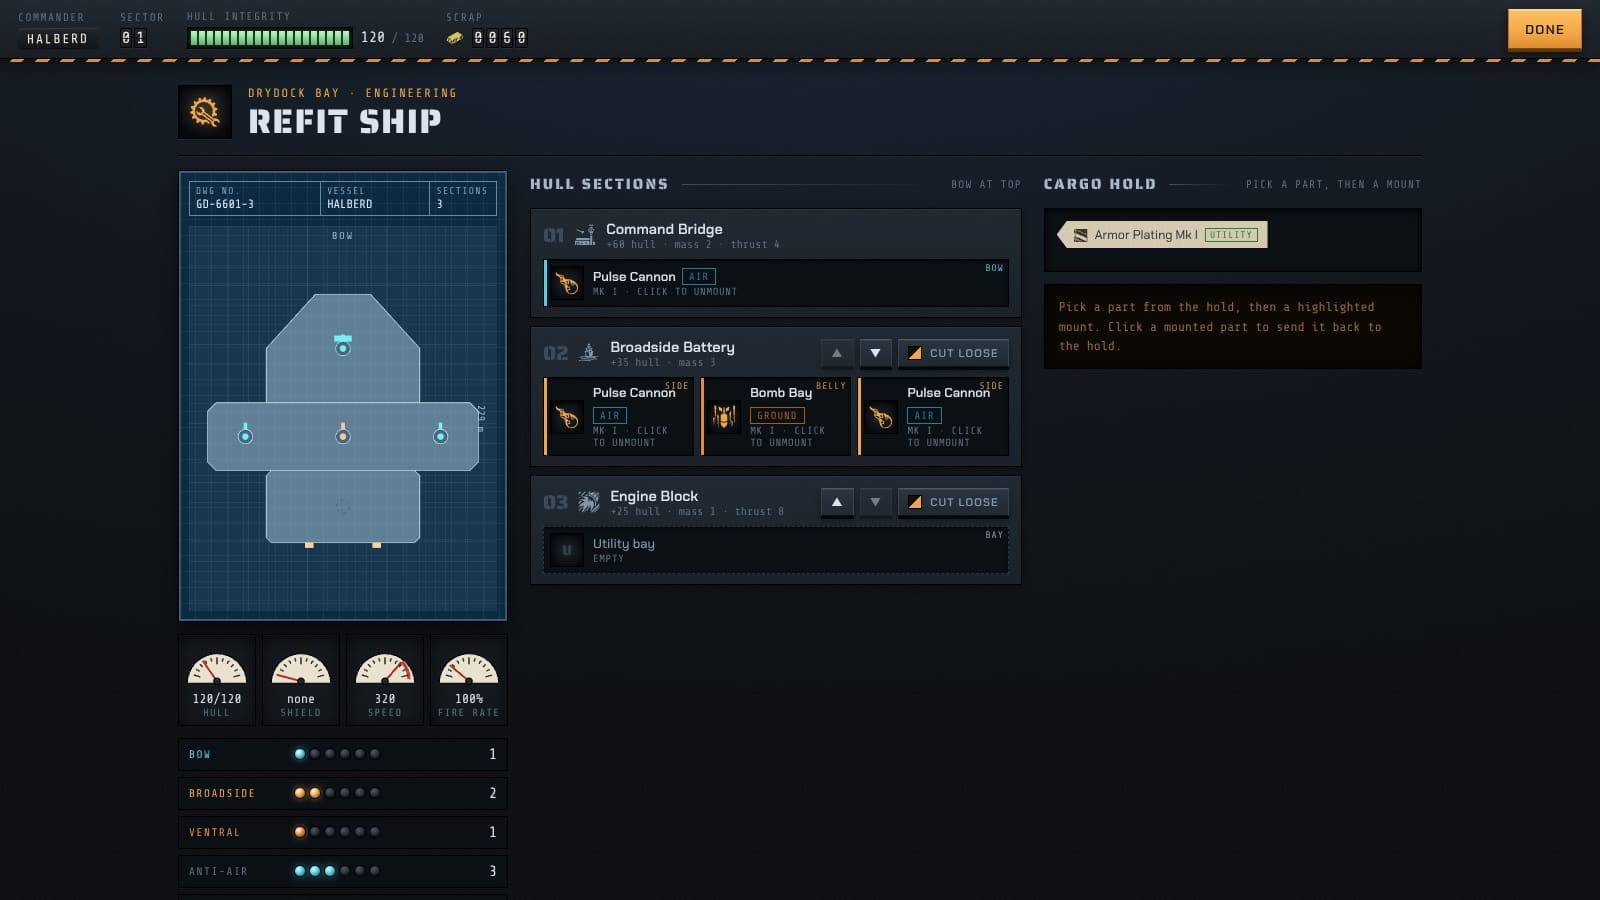
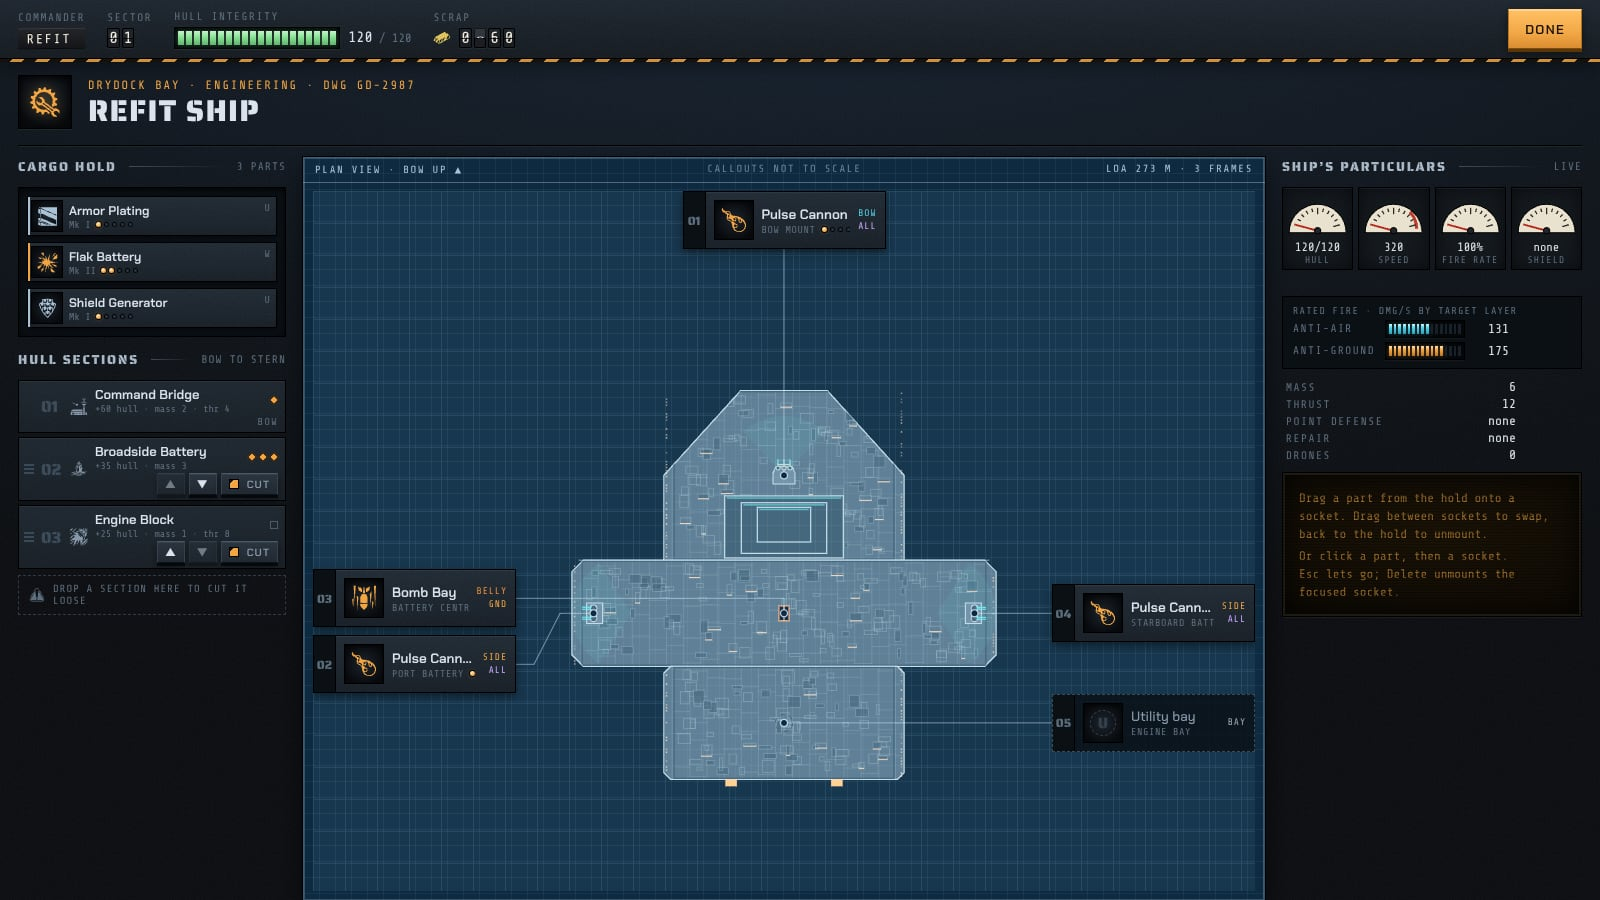
Refit board: carried tile hangs off the pointer, positional broadside side for candidates, screenshots
Claude-Session: https://claude.ai/code/session_013gCGajPg7k7sM5MfjeQhGC

diff --git a/src/ui/drag.ts b/src/ui/drag.ts
@@ -25,7 +25,7 @@ export const dragging = () => !!active;
 /** Cancel the drag in progress, if any (Escape, screen change). */
 export const cancelDrag = () => active?.cancel();
 
-const HOLD_MS = 260, SLOP = 6;
+const HOLD_MS = 260, SLOP = 6, CARRY = 0.82;
 
 /** Make `src` draggable. `hooks()` is asked at drag start and may return null to refuse (nothing to carry). */
 export function draggable(src: HTMLElement, hooks: () => DragHooks | null) {
@@ -33,15 +33,14 @@ export function draggable(src: HTMLElement, hooks: () => DragHooks | null) {
     if (e.button !== 0 || active) return;
     const touch = e.pointerType === 'touch', x0 = e.clientX, y0 = e.clientY, id = e.pointerId;
     let started = false, h: DragHooks | null = null, ghost: HTMLElement | null = null, target: HTMLElement | null = null;
-    let gx = 0, gy = 0, ox = 0, oy = 0, timer = 0, lx = x0, ly = y0;
+    let gx = 0, gy = 0, timer = 0, lx = x0, ly = y0;
     const begin = () => {
       h = hooks(); if (!h) { off(); return; }
       started = true;
       const r = src.getBoundingClientRect();
-      ox = x0 - r.left; oy = y0 - r.top;
       ghost = h.ghost ? h.ghost() : (src.cloneNode(true) as HTMLElement);
       ghost.classList.add('dnd-ghost'); ghost.removeAttribute('id'); ghost.setAttribute('aria-hidden', 'true');
-      Object.assign(ghost.style, { position: 'fixed', left: '0', top: '0', width: `${r.width}px`, height: `${r.height}px`, margin: '0', pointerEvents: 'none', zIndex: '1000' });
+      Object.assign(ghost.style, { position: 'fixed', left: '0', top: '0', transformOrigin: '0 0', width: `${r.width}px`, height: `${r.height}px`, margin: '0', pointerEvents: 'none', zIndex: '1000' });
       document.body.append(ghost);
       src.classList.add('dnd-src'); document.body.classList.add('dnd-on');
       active = { cancel: () => finish(null, true) };
@@ -52,8 +51,9 @@ export function draggable(src: HTMLElement, hooks: () => DragHooks | null) {
       if (touch && navigator.vibrate) try { navigator.vibrate(12); } catch { /* not allowed */ }
     };
     const place = (x: number, y: number) => {
-      gx = x - ox; gy = y - oy;
-      if (ghost) ghost.style.transform = `translate(${gx}px, ${gy}px) rotate(-1.5deg)`;
+      // Carried a little smaller, hanging below-right of the pointer, so the socket under it stays readable.
+      gx = x + 14; gy = y + 16;
+      if (ghost) ghost.style.transform = `translate(${gx}px, ${gy}px) scale(${CARRY}) rotate(-1.5deg)`;
       const under = document.elementFromPoint(x, y) as HTMLElement | null;
       const t = (under?.closest('[data-drop]') as HTMLElement | null) ?? null;
       if (t !== target) { target = t; h?.over(t); }
@@ -104,8 +104,8 @@ export function draggable(src: HTMLElement, hooks: () => DragHooks | null) {
       const done = () => { g.remove(); src.classList.remove('dnd-src'); document.body.classList.remove('dnd-on'); if (commit) commit(); hk.end(); };
       if (!to || still) { done(); return; }
       // Snap: the tile drops square into the socket (fast, slight overshoot), or springs home when refused.
-      const gr = g.getBoundingClientRect();
-      const tx = to.left + (to.width - gr.width) / 2, ty = to.top + (to.height - gr.height) / 2;
+      const gw = g.offsetWidth, gh = g.offsetHeight;
+      const tx = to.left + (to.width - gw) / 2, ty = to.top + (to.height - gh) / 2;
       g.classList.add(commit ? 'dnd-snap' : 'dnd-return');
       g.style.transform = `translate(${tx}px, ${ty}px)`;
       setTimeout(done, commit ? 150 : 220);

diff --git a/src/ui/refit.ts b/src/ui/refit.ts
@@ -46,7 +46,8 @@ const parseDrop = (s: string | undefined): Dst | null => {
   const m = /^slot:(\d+):(\d+)$/.exec(s);
   return m ? { k: 'slot', si: +m[1], i: +m[2] } : null;
 };
-const sideOf = (d: Derived, si: number, i: number) => d.mounts.find((m) => m.si === si && m.i === i)?.side ?? 0;
+/** The flank a mount would fire to with a broadside gun in it, from where it sits (derive() gives 0 when the part in it is, say, a bomb). */
+const sideOf = (d: Derived, si: number, i: number): -1 | 0 | 1 => { const m = d.mounts.find((x) => x.si === si && x.i === i); return !m || d.rects[si].type !== 'battery' ? 0 : m.ox < -1 ? -1 : m.ox > 1 ? 1 : 0; };
 
 /** Board anchors: where each mount is drawn on the plan (the bridge's mount is called out above the ship). */
 const anchorsOf = (d: Derived) => d.mounts.map((m) => {
@@ -194,7 +195,7 @@ export function refitPanel(run: RunState, onChange: () => void, extras: RefitExt
     const arcFor = (si: number, i: number, cand: boolean, hot: boolean) => {
       const m = show.mounts.find((x) => x.si === si && x.i === i); if (!m) return;
       let tr: Traverse = m.trav;
-      if (cand && p) { const sec = run.build.sections[si]; tr = mountTraverse(sec.type, SECTIONS[sec.type].slots[i], p.id, m.side); }
+      if (cand && p) { const sec = run.build.sections[si]; tr = mountTraverse(sec.type, SECTIONS[sec.type].slots[i], p.id, sideOf(show, si, i)); }
       if (!tr.sectors.length) return;
       const [x, y] = L!.anchors[`${si}-${i}`], col = ARC_INFO[tr.arc].col, big = Math.max(64, Math.min(120, L!.ship.s * 48)), r = hot ? big : big * 0.46;
       const g = svg('g', { class: `arc-w${hot ? ' hot' : ''}${tr.down ? ' down' : ''}`, style: `--arc:${col}` });

diff --git a/docs/TECH.md b/docs/TECH.md
@@ -321,8 +321,8 @@ service, which also passes the counter (`market`, `sections` getters on `RefitEx
   `firepower()`, mass, thrust, PD, repair, drones). A section drag redraws the reordered hull at its own fit.
 - **Drag** (`draggable(el, hooks)`): pointer events, one path for mouse, pen and touch. Mouse/pen start after 6 px of travel,
   a finger after a 260 ms press-and-hold (a quick swipe still scrolls). Targets are `[data-drop]` elements
-  (`slot:<si>:<i>`, `hold`, `sec:<i>`, `cut`); the carried tile is a clone that snaps into the target (150 ms overshoot) or
-  springs back. Edge auto-scroll while carrying (phones: hold below the board). Escape cancels. The board does not re-render
+  (`slot:<si>:<i>`, `hold`, `sec:<i>`, `cut`); the carried tile is a clone hung below-right of the pointer (so the socket under it stays
+  readable) that snaps into the target (150 ms overshoot) or springs back. Edge auto-scroll while carrying (phones: hold below the board). Escape cancels. The board does not re-render
   mid-drag (`dragging()`).
 - **Feedback**: landing plays `uiSound('stamp')` (a counter purchase `'buy'`), the socket does a clunk (scale overshoot and a
   well flash) and its leader and ring flash; refused drops `'deny'` and wobble. Gauges rebuild only when the committed fit
@@ -330,6 +330,8 @@ service, which also passes the counter (`market`, `sections` getters on `RefitEx
 - **Click and keyboard**: click (or Enter) a hold part to pick it, then a socket to place it; click a mounted part to pick it
   up, then another socket to swap or "Return to hold"; Delete unmounts the focused socket; Esc lets go. Sections also keep
   their ▲ ▼ buttons and guarded Cut switch; dropping a section in the cut bin asks for confirmation.
+- Screenshots: `docs/shots/ui-refit-*.jpg` (board idle, drag over a lit / refused socket, equipped, swap, section drag,
+  merchant counter, an 8-section build, phone).
 - Hooks for tests: `.mtile[data-slot="si-i"]` (`.cand`, `.nope`, `.over`), `[data-inv]`, `[data-mkt]`, `.rf-hold`,
   `li.sec[data-sec]`, `.rf-toast`, `.board-lines .lead` / `.arc-w.hot`.
 
